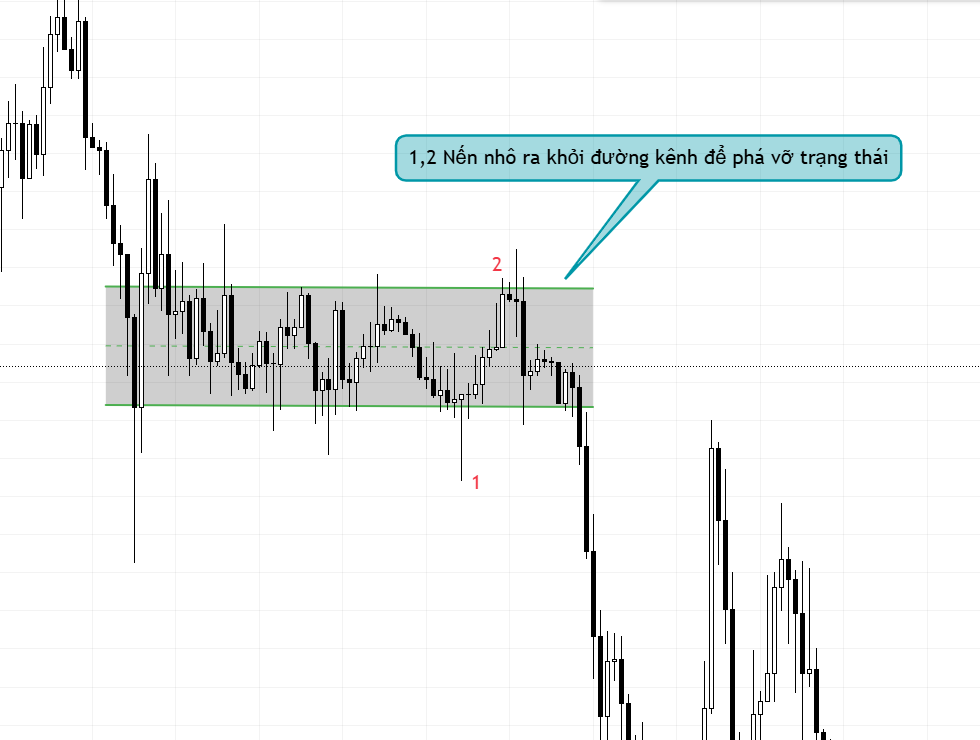
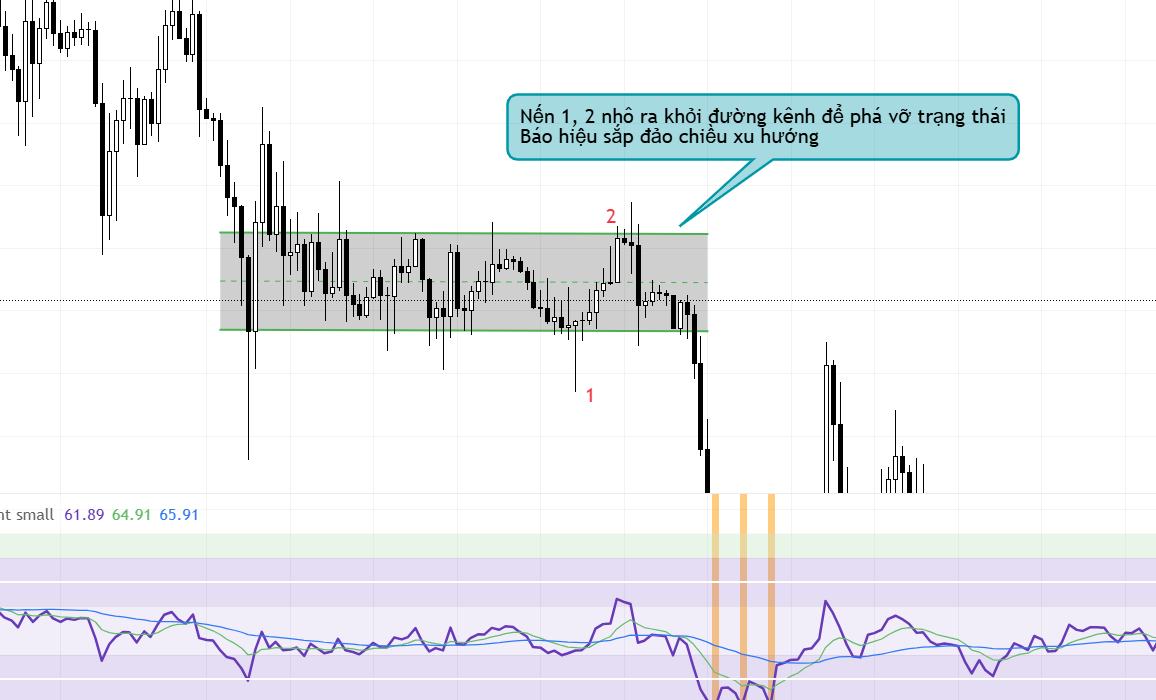
f

diff --git a/src/app/(pages)/technical-analysis/page.tsx b/src/app/(pages)/technical-analysis/page.tsx
@@ -149,6 +149,7 @@ export default function QuintessenceOfRsiPage() {
   const [isTrap, setIsTrap] = useState(false);
   const [isExcess, setIsExcess] = useState(false);
   const [isBreak, setIsBreak] = useState(false);
+  const [isDivergence, setIsDivergence] = useState(false);
   const sidebar = useStore(useSidebar, (x) => x);
   const router = useRouter();
 
@@ -189,6 +190,11 @@ export default function QuintessenceOfRsiPage() {
       title: "QUÁ ĐÀ",
       imageSrc: "/support-resistance/break-01.png",
       onClick: () => setIsBreak(true)
+    },
+    {
+      title: "PHÂN KÌ",
+      imageSrc: "/support-resistance/divergence-01.png",
+      onClick: () => setIsDivergence(true)
     }
   ];
 
@@ -233,6 +239,12 @@ export default function QuintessenceOfRsiPage() {
         title="QUÁ ĐÀ"
         isOpen={isBreak}
         onClose={() => setIsBreak(false)}
+      />
+      <ImageGallery
+        images={["/support-resistance/divergence-02.png", "/support-resistance/divergence-03.png"]}
+        title="PHÂN KÌ"
+        isOpen={isDivergence}
+        onClose={() => setIsDivergence(false)}
       />
     </ContentLayout>
   );
